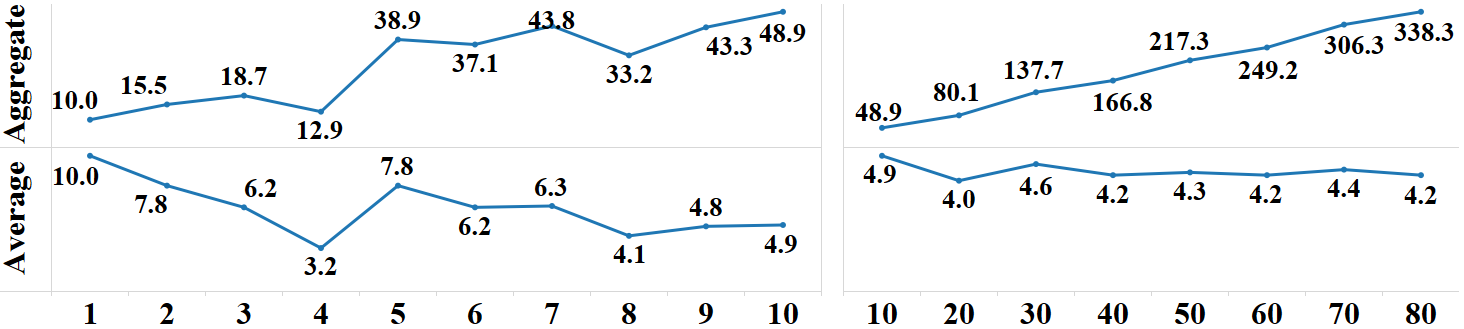
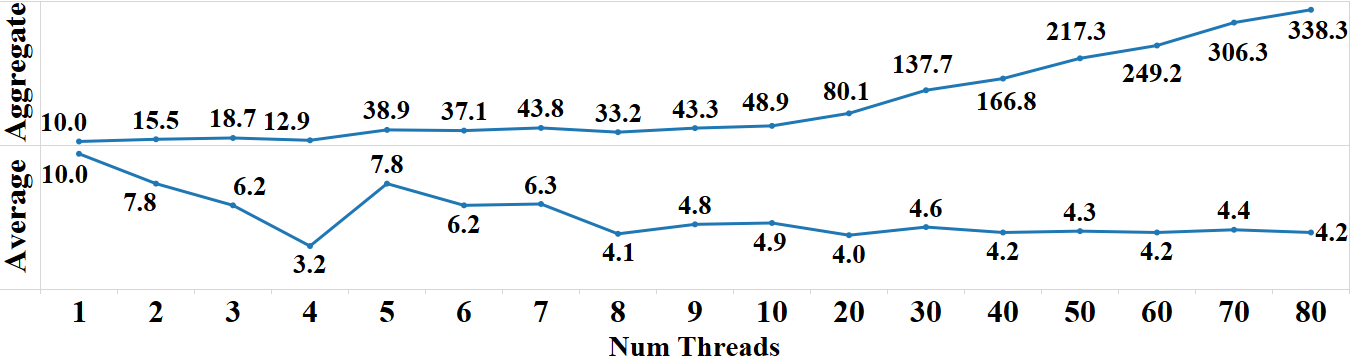
fixed figures to address reviewer feedback

diff --git a/capacity.tex b/capacity.tex
@@ -48,6 +48,7 @@ store read sets and the L1 cache to store write sets.
 \begin{minipage}[b]{.45\linewidth}
 \centering
 \includegraphics[width=\linewidth]{images/wttm_capacity_read_intel}
+\vspace{-25pt}
 \caption{Lines Read vs Success Rate.}
 \label{fig:wttm_capacity_read_intel}
 \end{minipage}%
@@ -55,6 +56,7 @@ store read sets and the L1 cache to store write sets.
 \begin{minipage}[b]{.45\linewidth}
 \centering
 \includegraphics[width=\linewidth]{images/wttm_capacity_write_intel}
+\vspace{-25pt}
 \caption{Lines Written vs Success Rate.}
 \label{fig:wttm_capacity_write_intel}
 \end{minipage}
@@ -65,14 +67,16 @@ store read sets and the L1 cache to store write sets.
 \begin{minipage}[b]{.45\linewidth}
 \centering
 \includegraphics[width=\linewidth]{images/wttm_stride_read_intel}
-\caption{$\log_2{\textrm{Stride}}$ vs $\log_2{\textrm{Lines Readable}}$.}
+\vspace{-25pt}
+\caption{$\log_2{\textrm{Stride}}$ vs $\log_2{\textrm{Lines Read}}$.}
 \label{fig:wttm_stride_read_intel}
 \end{minipage}%
 \quad
 \begin{minipage}[b]{.45\linewidth}
 \centering
 \includegraphics[width=\linewidth]{images/wttm_stride_write_intel}
-\caption{$\log_2{\textrm{Stride}}$ vs $\log_2{\textrm{Lines Writable}}$.}
+\vspace{-25pt}
+\caption{$\log_2{\textrm{Stride}}$ vs $\log_2{\textrm{Lines Written}}$.}
 \label{fig:wttm_stride_write_intel}
 \end{minipage}
 \end{figure}
@@ -177,6 +181,7 @@ each thread is allocated its own copy.
 \begin{minipage}[b]{.45\linewidth}
 \centering
 \includegraphics[width=\linewidth]{images/wttm_capacity_readwrite_ibm}
+\vspace{-25pt}
 \caption{Lines Read/Written vs Success Rate.}
 \label{fig:wttm_capacity_readwrite_ibm}
 \end{minipage}%
@@ -184,7 +189,8 @@ each thread is allocated its own copy.
 \begin{minipage}[b]{.45\linewidth}%[ht!]
 \centering
 \includegraphics[width=\linewidth]{images/wttm_stride_readwrite_ibm}
-\caption{Stride vs Lines Readable/Writeable.}
+\vspace{-25pt}
+\caption{Stride vs Lines Read/Written.}
 \label{fig:wttm_stride_readwrite_ibm}
 \end{minipage}
 \end{figure}
@@ -224,7 +230,9 @@ caches.
 \begin{figure}[H]%[ht!]
 \centering
 \includegraphics[width=\linewidth]{images/wttm_core_or_thread_ibm}
-\caption{Number of Threads vs Committed Transactions (Thousands).}
+\vspace{-25pt}
+\caption{Number of Threads vs Aggregate/Average Committed Transactions
+(Thousands).}
 \label{fig:wttm_core_or_thread_ibm}
 \end{figure}
 
